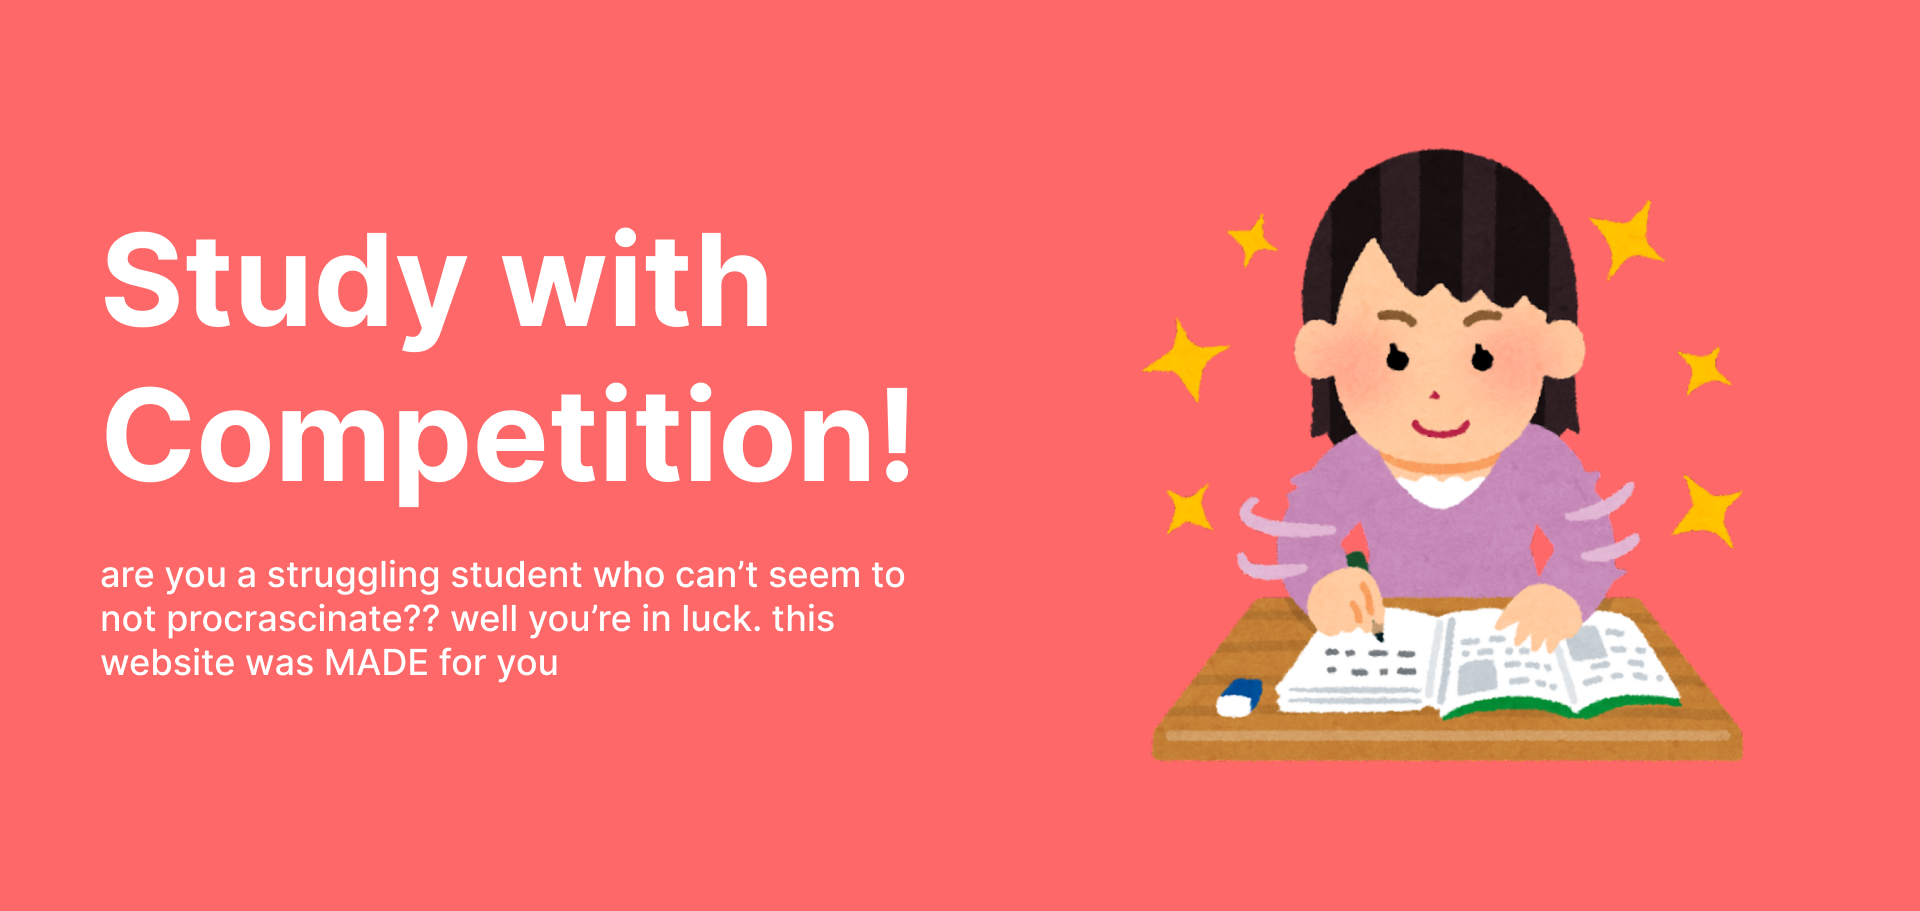
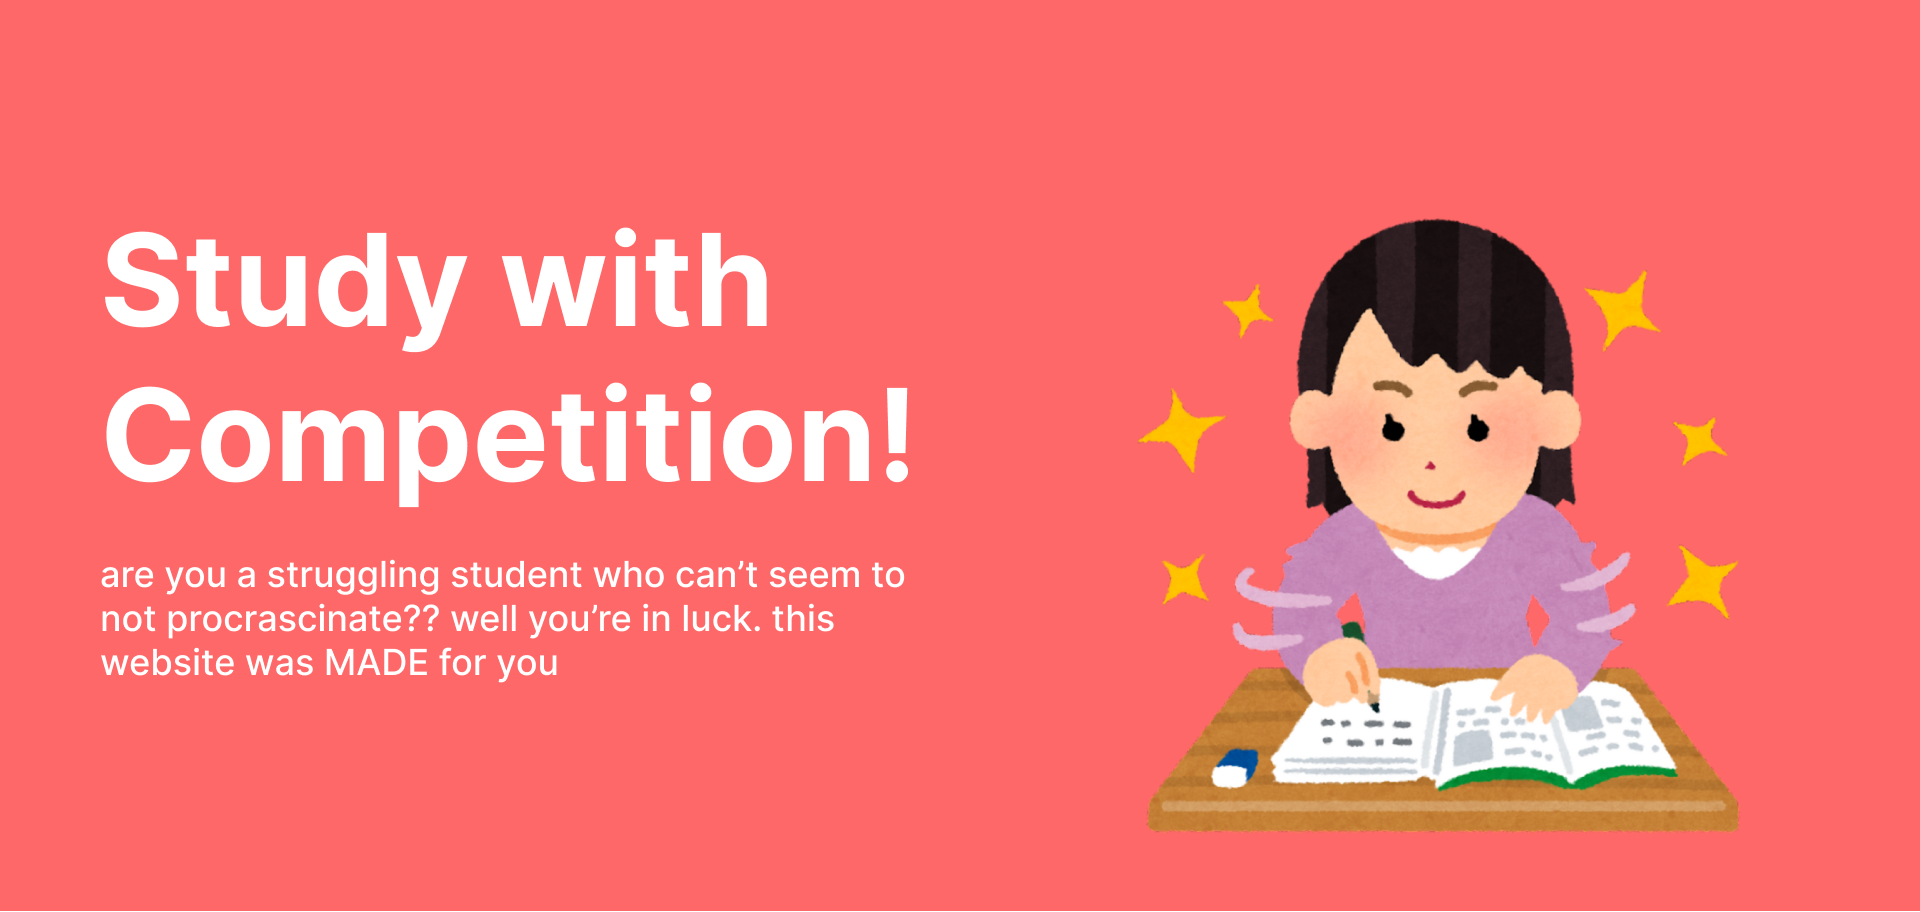
added hover img + japanese girl is fine

diff --git a/style.css b/style.css
@@ -4,6 +4,8 @@ body {
     font-weight: 400;
     font-style: normal;
     margin: 0;
+    overflow-x: hidden;
+    overflow-y: hidden;
 }
 
 @media only screen and (min-width: 0rem) {
@@ -865,16 +867,6 @@ body {
     width: 100%;
 }
 
-@keyframes fadeUp {
-    0% { 
-        opacity: 0; 
-        transform: translateY(40px);
-    }
-    100% { 
-        opacity: 1; 
-        transform: translateY(0px);
-    }
-}
 
 .study .btn {
     position: absolute;
@@ -897,9 +889,20 @@ body {
 }
 
   
-  .btn:hover {
+.btn:hover {
     background-color: black;
     color: white;
-  }
+}
+
+  @keyframes fadeUp {
+    0% { 
+        opacity: 0; 
+        transform: translateY(40px);
+    }
+    100% { 
+        opacity: 1; 
+        transform: translateY(0px);
+    }
+}
                                   
                                   
